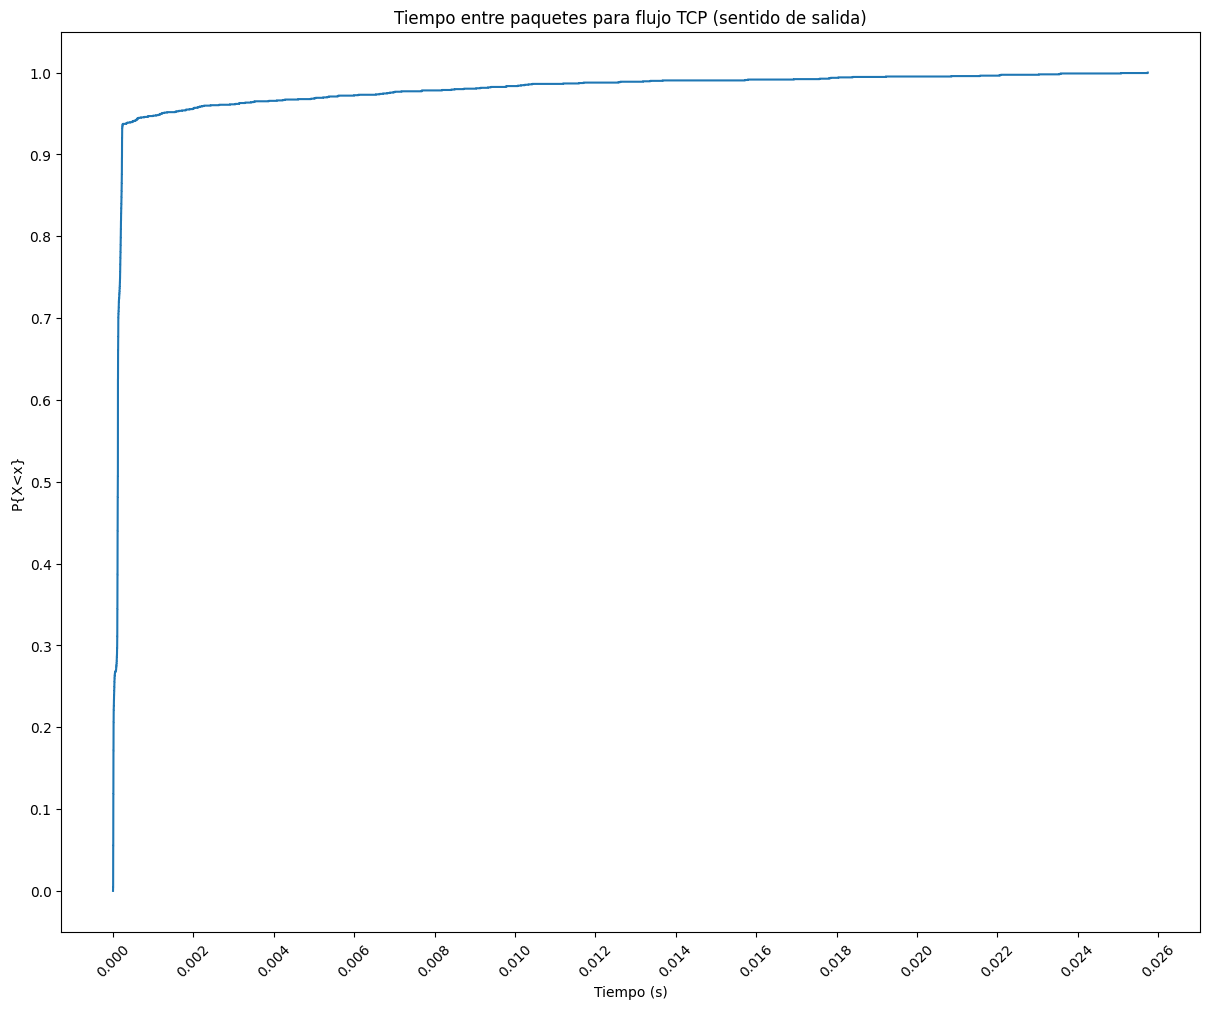
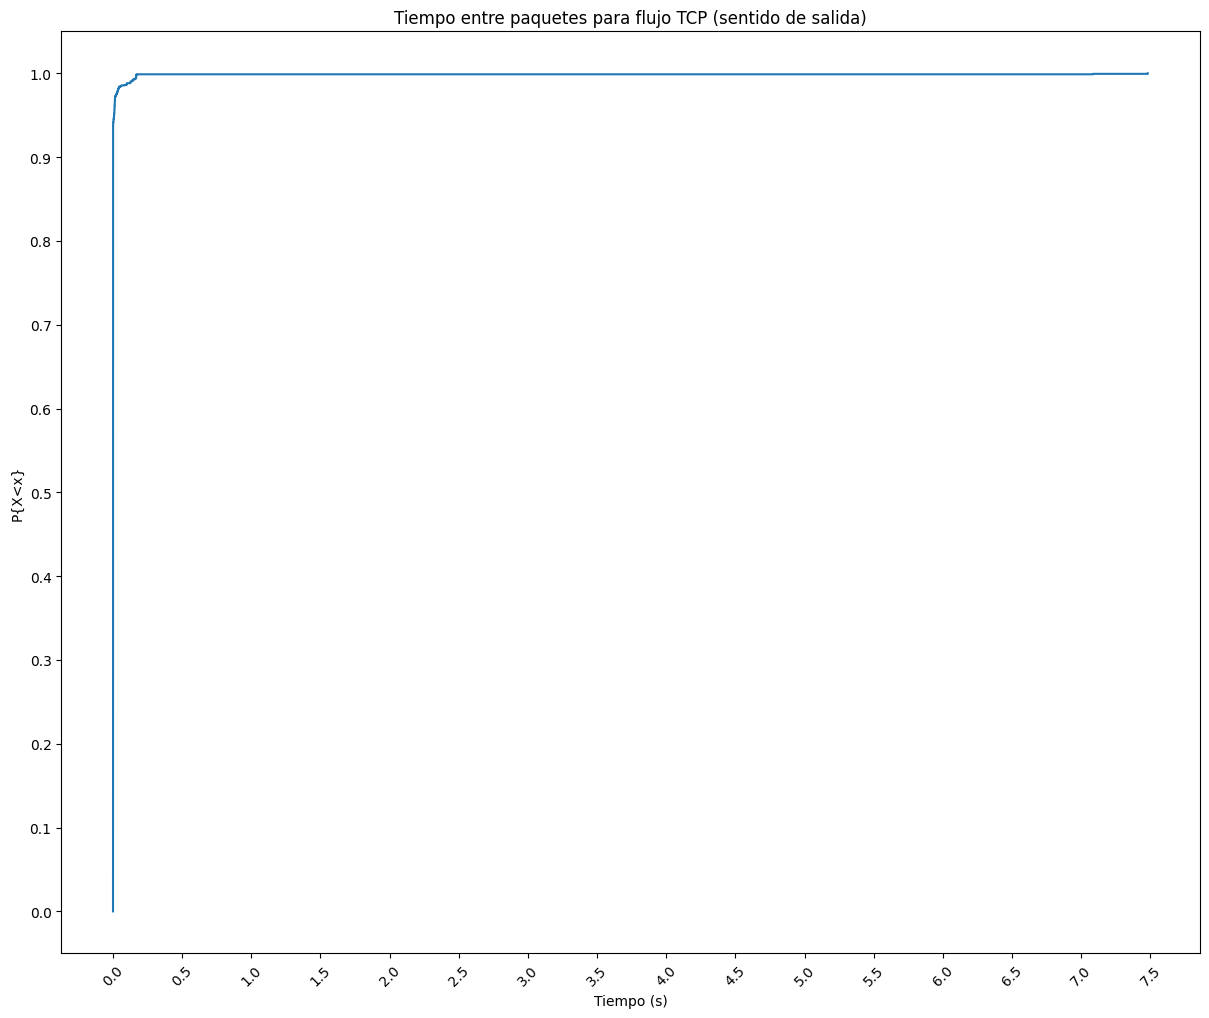
La puta ECDF

diff --git a/P3/practica3.py b/P3/practica3.py
@@ -470,7 +470,7 @@ if __name__ == "__main__":
     #Obtención de las ECDF de tamaño de los tiempos entre llegadas
     #TODO: Añadir código para obtener los datos y generar la gráfica de la ECDF de los tiempos entre llegadas para el flujo TCP
     logging.info('Ejecutando tshark para obtener la ECDF del flujo TCP (origen)')
-    codigo,salida = ejecutarComandoObtenerSalida("tshark -r {} -T fields -e frame.time_delta_displayed -Y 'ip.src eq {} and (not icmp)'".format(args.tracefile, args.ip_flujo_tcp))
+    codigo,salida = ejecutarComandoObtenerSalida("tshark -r {} -T fields -e frame.time_delta_displayed -Y 'ip.src eq {} and tcp and (not icmp)'".format(args.tracefile, args.ip_flujo_tcp))
     if codigo:
         sys.exit(-1)
 
@@ -482,7 +482,7 @@ if __name__ == "__main__":
     pintarECDF(tiempos, "ECDFdeltaTCPSrc.png", "Tiempo entre paquetes para flujo TCP (sentido de salida)", "Tiempo (s)", "P{X<x}")
 
     logging.info('Ejecutando tshark para obtener la ECDF del flujo TCP (destino)')
-    codigo,salida = ejecutarComandoObtenerSalida("tshark -r {} -T fields -e frame.time_delta_displayed -Y 'ip.dst eq {} and (not icmp)'".format(args.tracefile, args.ip_flujo_tcp))
+    codigo,salida = ejecutarComandoObtenerSalida("tshark -r {} -T fields -e frame.time_delta_displayed -Y 'ip.dst eq {} and tcp and (not icmp)'".format(args.tracefile, args.ip_flujo_tcp))
     if codigo:
         sys.exit(-1)
 
